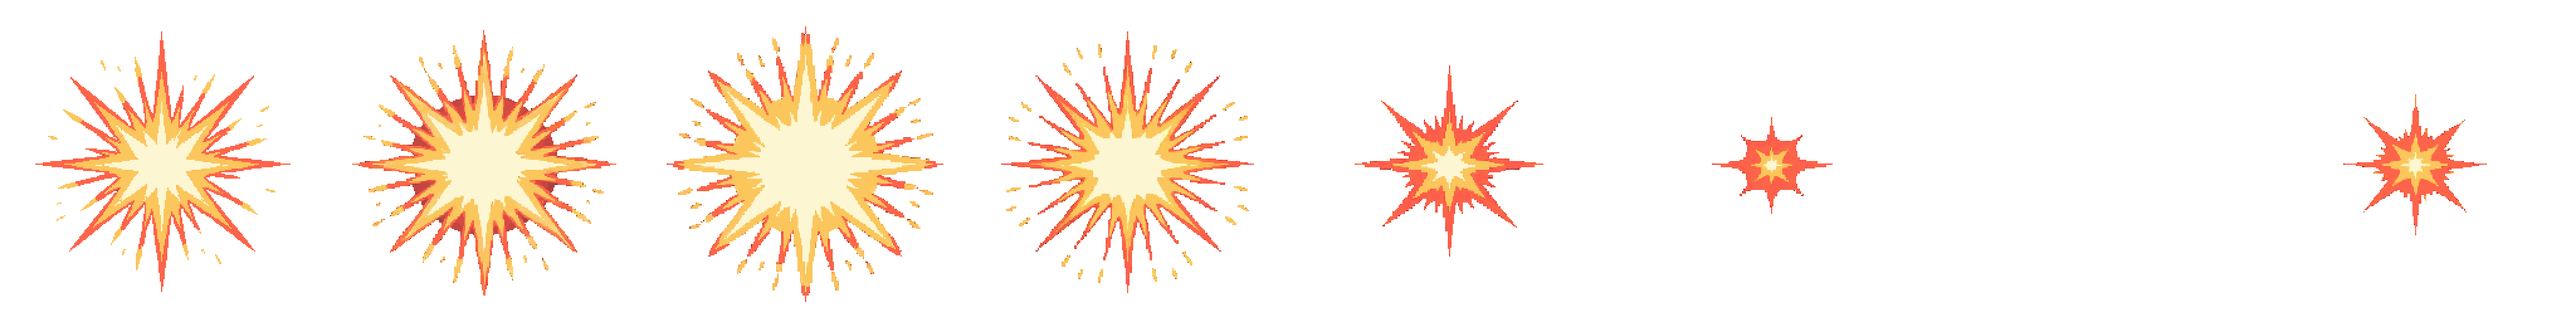
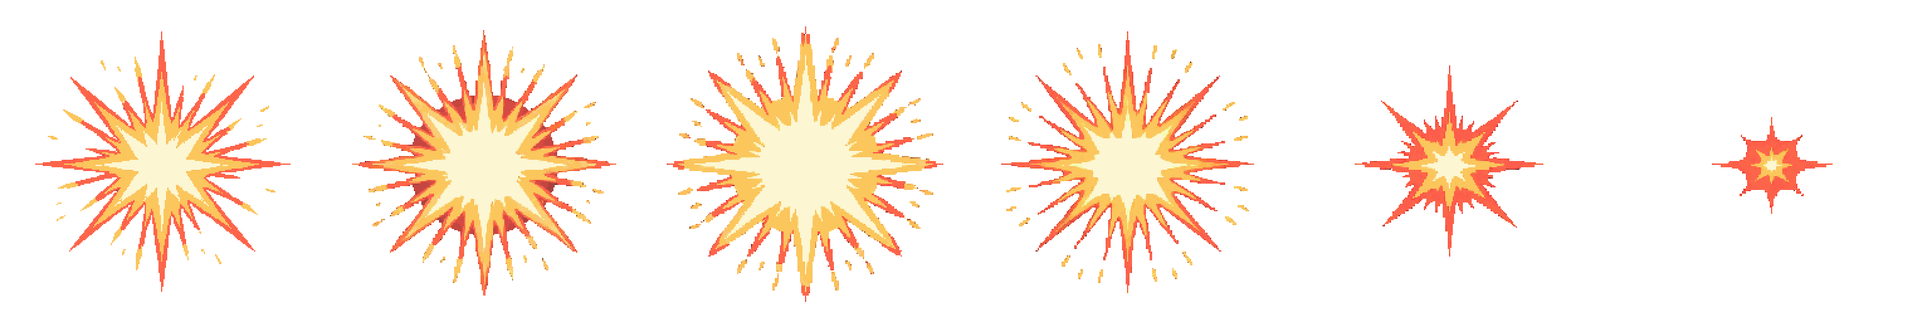
fix(vfx): the hit effects fired beside the enemies and never ended
Two questions asked, both answered by measuring rather than by opinion.

THE MISSING ART. AURA and MARK shipped as blank cream discs — plates with no
symbol on them, which is why the Weave's Form picker had two empty cells. Both
regenerated through PixelLab and recoloured to the shipped glyph cream (245,
232, 187), sampled from the TRAP icon rather than guessed. These icons are
drawn TINTED by the skill's Source, so the source art has to be a light flat
silhouette; a saturated glyph multiplies into mud.

The first AURA attempt came back with ZERO opaque pixels — asking for cream on
white let the background remover erase the whole subject. Regenerated in teal
purely to survive that step, then recoloured. Worth writing down: with a
tint-driven icon you cannot generate the final colour directly.

THE EFFECTS. Measured per frame, as the fraction of each frame that is opaque:

  impact_gold     32 38 42 24 10  4  4 [17]   decays, then POPS BACK
  impact_crit     18 24 29 19  9  3  0 [ 5]   decays to empty, then flashes
  death_dissolve  23 24 24 23 22 22 21  21    a LOOP, played once as a one-shot
  levelup          8  8  8  8  8  8  9   9    also a loop

So every hit sparked a second time after it had finished, and half the effects
in the fight ended by vanishing at full brightness. The two impact strips are
trimmed at the source — those frames are not part of the animation — and
VfxPlayer now fades every effect across its final third, which is the one
[…]

Changed region(s): [[0.0, 0.0938, 0.8125, 0.9062], [0.875, 0.375, 0.9688, 0.6562]]

diff --git a/src/ResonanceHunter.Game/VfxPlayer.cs b/src/ResonanceHunter.Game/VfxPlayer.cs
@@ -38,6 +38,45 @@ public sealed class VfxPlayer
 
         public int CurrentFrame => Math.Min(Frames - 1, (int)(Elapsed / SecondsPerFrame));
         public bool Done => Elapsed >= SecondsPerFrame * Frames;
+
+        /// <summary>
+        /// 1 for most of the clip, easing to 0 across its final third — so every effect ENDS.
+        /// </summary>
+        /// <remarks>
+        /// <para>
+        /// The strips do not agree on how to finish, and until now none of them had to. Measured, per
+        /// frame, as a fraction of the frame that is opaque:
+        /// </para>
+        /// <code>
+        ///   impact_gold   32 38 42 24 10  4  4 [17]   decays, then POPS BACK on the last frame
+        ///   impact_crit   18 24 29 19  9  3  0 [ 5]   decays to empty, then flashes once more
+        ///   death_dissolve 23 24 24 23 22 22 21  21   a LOOP, played once as a one-shot
+        ///   levelup        8  8  8  8  8  8  9   9    also a loop
+        /// </code>
+        /// <para>
+        /// So half the effects in the fight ended by simply vanishing at full brightness, and two of
+        /// them flickered back on after they had finished. A fade is the one change that fixes every
+        /// shape of ending at once — a decaying burst gets a soft tail, a looping flame gets an exit,
+        /// and a stray final frame is dim enough not to read as a second hit.
+        /// </para>
+        /// <para>
+        /// Cubed rather than linear because these draw ADDITIVELY: additive alpha reads far brighter
+        /// than its number suggests, so a linear ramp still looks like a hard cut at the end.
+        /// </para>
+        /// </remarks>
+        public float Fade
+        {
+            get
+            {
+                var total = SecondsPerFrame * Frames;
+                if (total <= 0f) return 1f;
+                const float tail = 0.35f;
+                var t = Math.Clamp(Elapsed / total, 0f, 1f);
+                if (t <= 1f - tail) return 1f;
+                var k = (1f - t) / tail;
+                return k * k * k;
+            }
+        }
     }
 
     private readonly AssetLibrary _assets;
@@ -106,7 +145,7 @@ public sealed class VfxPlayer
             // on-screen size constant (×4 canvas → 26, ×1 canvas → 104). Aspect kept.
             var h = a.Scale * 104 / Scale;
             var w = h * a.FrameW / a.FrameH;
-            b.Draw(a.Sheet, new Rectangle(a.CenterX - w / 2, a.CenterY - h / 2, w, h), src, a.Tint);
+            b.Draw(a.Sheet, new Rectangle(a.CenterX - w / 2, a.CenterY - h / 2, w, h), src, a.Tint * a.Fade);
         }
         b.End();
         b.Begin(SpriteSortMode.Deferred, BlendState.AlphaBlend, SamplerState.LinearClamp, null, Rasterizer, null, Matrix.CreateScale(Scale));

diff --git a/src/ResonanceHunter.Game/SoloExpeditionScreen.cs b/src/ResonanceHunter.Game/SoloExpeditionScreen.cs
@@ -723,7 +723,7 @@ public sealed class SoloExpeditionScreen
                     _vfx.Play("vfx_death", ChampBox.Center.X, ChampBox.Center.Y, fps: 14f);
                     break;
                 case BattleEventKind.EnemyDown:
-                    _vfx.Play("vfx_death", EnemyBox.Center.X, EnemyBox.Center.Y, scale: 2, fps: 14f);
+                    _vfx.Play("vfx_death", _rowCentreX, _rowTopY + 110, scale: 2, fps: 14f);
                     break;
             }
         }
@@ -769,19 +769,19 @@ public sealed class SoloExpeditionScreen
         switch (form)
         {
             case Form.Strike:
-                _vfx.Play("vfx_ability_ruinstrike", EnemyBox.Center.X, EnemyBox.Center.Y, fps: 22f, tint: Ember);
+                _vfx.Play("vfx_ability_ruinstrike", _rowCentreX, _rowTopY + 110, fps: 22f, tint: Ember);
                 break;
             case Form.Trap:
-                _vfx.Play("vfx_crit", EnemyBox.Center.X, EnemyBox.Center.Y, fps: 20f, tint: Gold);
+                _vfx.Play("vfx_crit", _rowCentreX, _rowTopY + 110, fps: 20f, tint: Gold);
                 break;
             case Form.Mark:
-                _vfx.Play("vfx_interrupt", EnemyBox.Center.X, EnemyBox.Center.Y, fps: 20f, tint: Bone);
+                _vfx.Play("vfx_interrupt", _rowCentreX, _rowTopY + 110, fps: 20f, tint: Bone);
                 break;
             case Form.Transformation:
                 _vfx.Play("vfx_levelup", ChampBox.Center.X, ChampBox.Y + 24, fps: 18f, tint: Verdant);
                 break;
             default:
-                _vfx.Play("vfx_weakhit", EnemyBox.Center.X, EnemyBox.Center.Y, fps: 18f, tint: Steel);
+                _vfx.Play("vfx_weakhit", _rowCentreX, _rowTopY + 110, fps: 18f, tint: Steel);
                 break;
         }
     }
@@ -964,6 +964,11 @@ public sealed class SoloExpeditionScreen
         // height, which is what actually moved.
         _rowCentreX = resting;
         _rowTopY = EnemyBox.Bottom - h;
+
+        // THE HIT EFFECTS USE THIS TOO. Every enemy-side VFX played at EnemyBox.Center — 146px right of
+        // where a swarm actually stands — so the spark, the crit burst and the death plume all went off
+        // beside the creatures rather than on them. They are spawned at (_rowCentreX, _rowTopY + 110):
+        // the row's centre, and roughly its upper body rather than its feet.
 
         string? stripKey = null, staticKey = null;
         if (EnemySource is { } es && EnemyForSource.TryGetValue(es, out var en))

diff --git a/src/ResonanceHunter.Game/AssetLibrary.cs b/src/ResonanceHunter.Game/AssetLibrary.cs
@@ -150,6 +150,13 @@ public sealed class AssetLibrary
         // crit / death / interrupt now have DEDICATED strips. Previously crit shared slash_void with
         // ability_ruinstrike, death shared smoke_puff with weakhit, and interrupt drew a holy HEAL burst —
         // so a interrupted cast and a heal looked identical. Each semantic event now reads as itself.
+        // THE TWO IMPACT STRIPS NO LONGER HAVE EIGHT FRAMES, whatever their filenames say: gold was
+        // trimmed to 7 and crit to 6. Both carried frames that were not part of the animation — gold
+        // decayed to 4% coverage and then POPPED BACK to 17% on the last frame, crit went empty on 7
+        // and flashed again on 8 — so in the fight every hit sparked a second time after it had
+        // finished. VfxPlayer derives the frame count from width/height, so nothing reads the "8";
+        // the names are left alone because renaming would mean editing the content pipeline in three
+        // places for a string no code parses.
         ["vfx_hit"] = "impact_gold_strip8_512", ["vfx_weakhit"] = "smoke_puff_strip8_512",
         ["vfx_crit"] = "impact_crit_strip8_512", ["vfx_ability_ruinstrike"] = "slash_shadow_strip8_512",
         ["vfx_death"] = "death_dissolve_strip8_512", ["vfx_interrupt"] = "interrupt_break_strip8_512",
